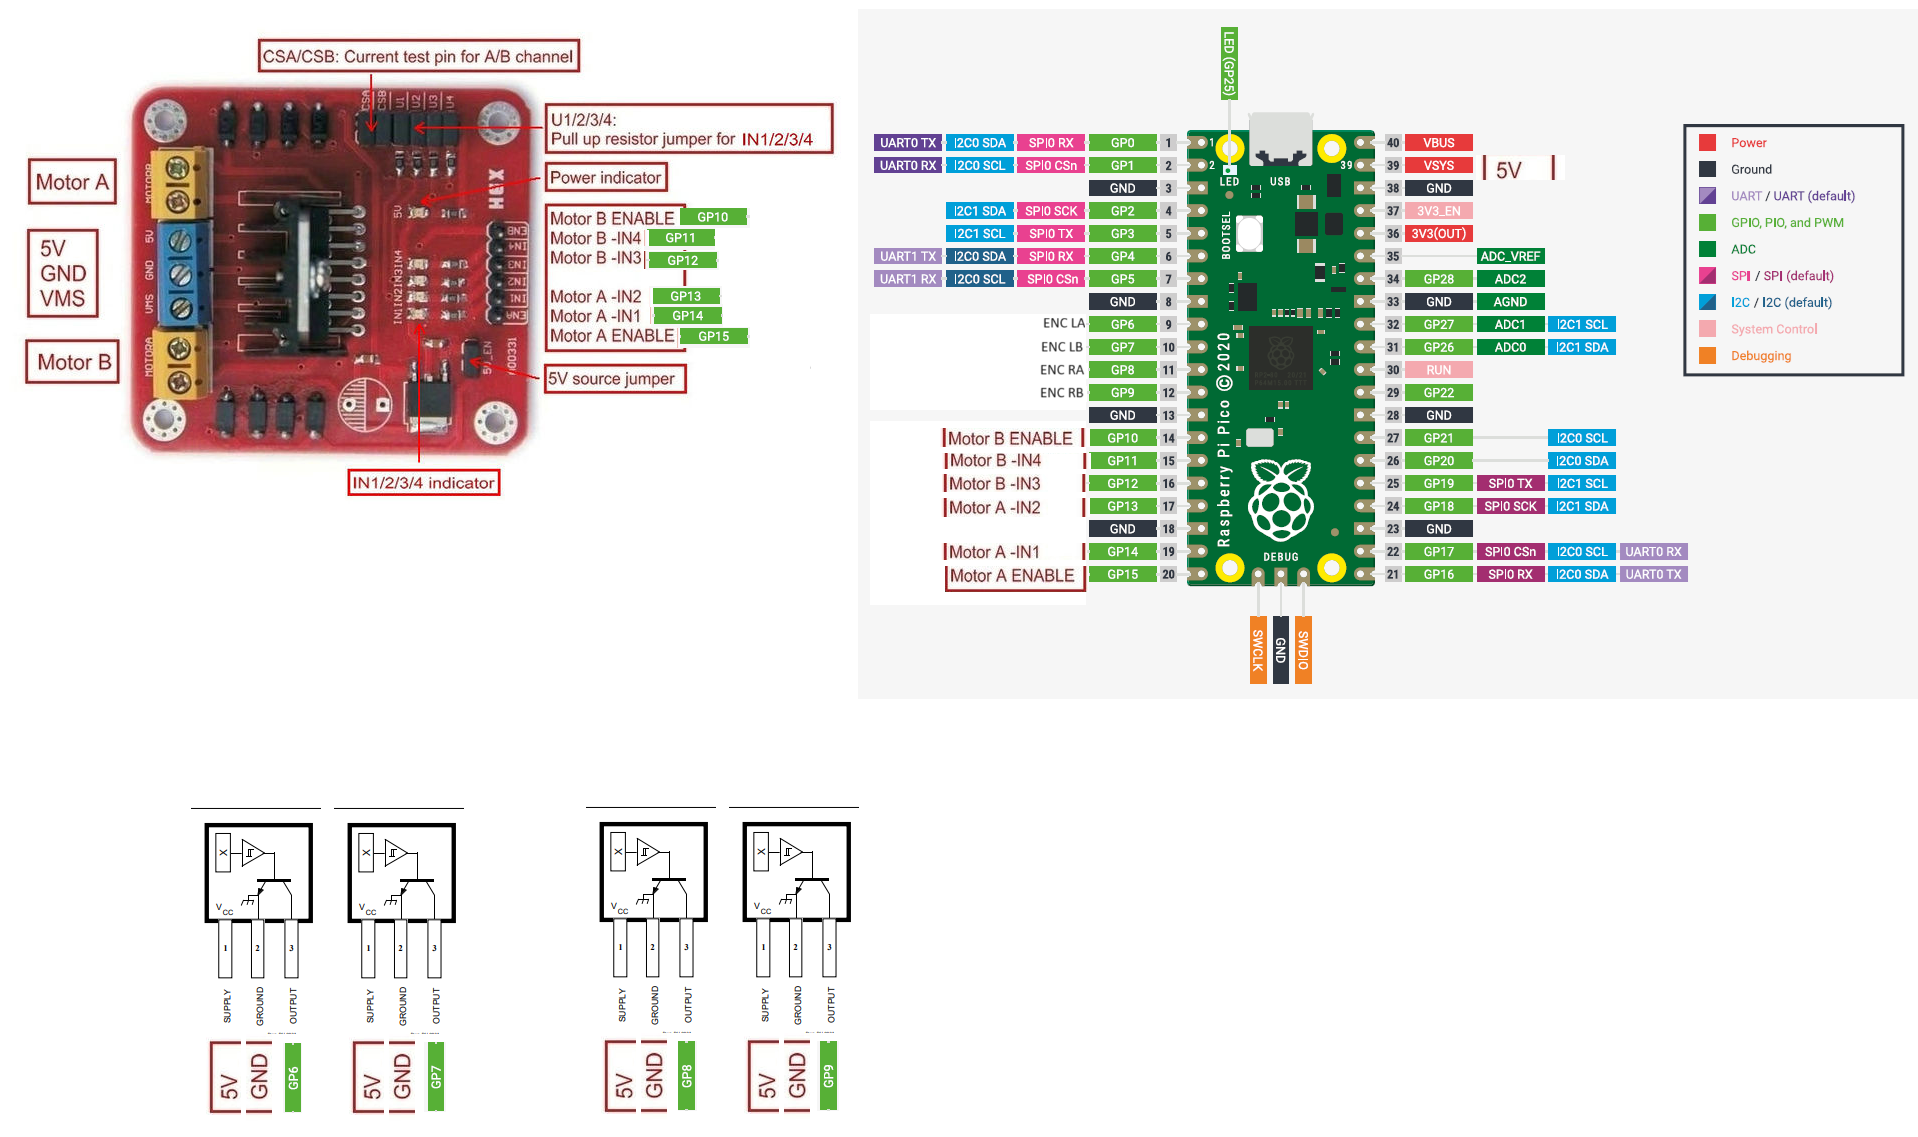
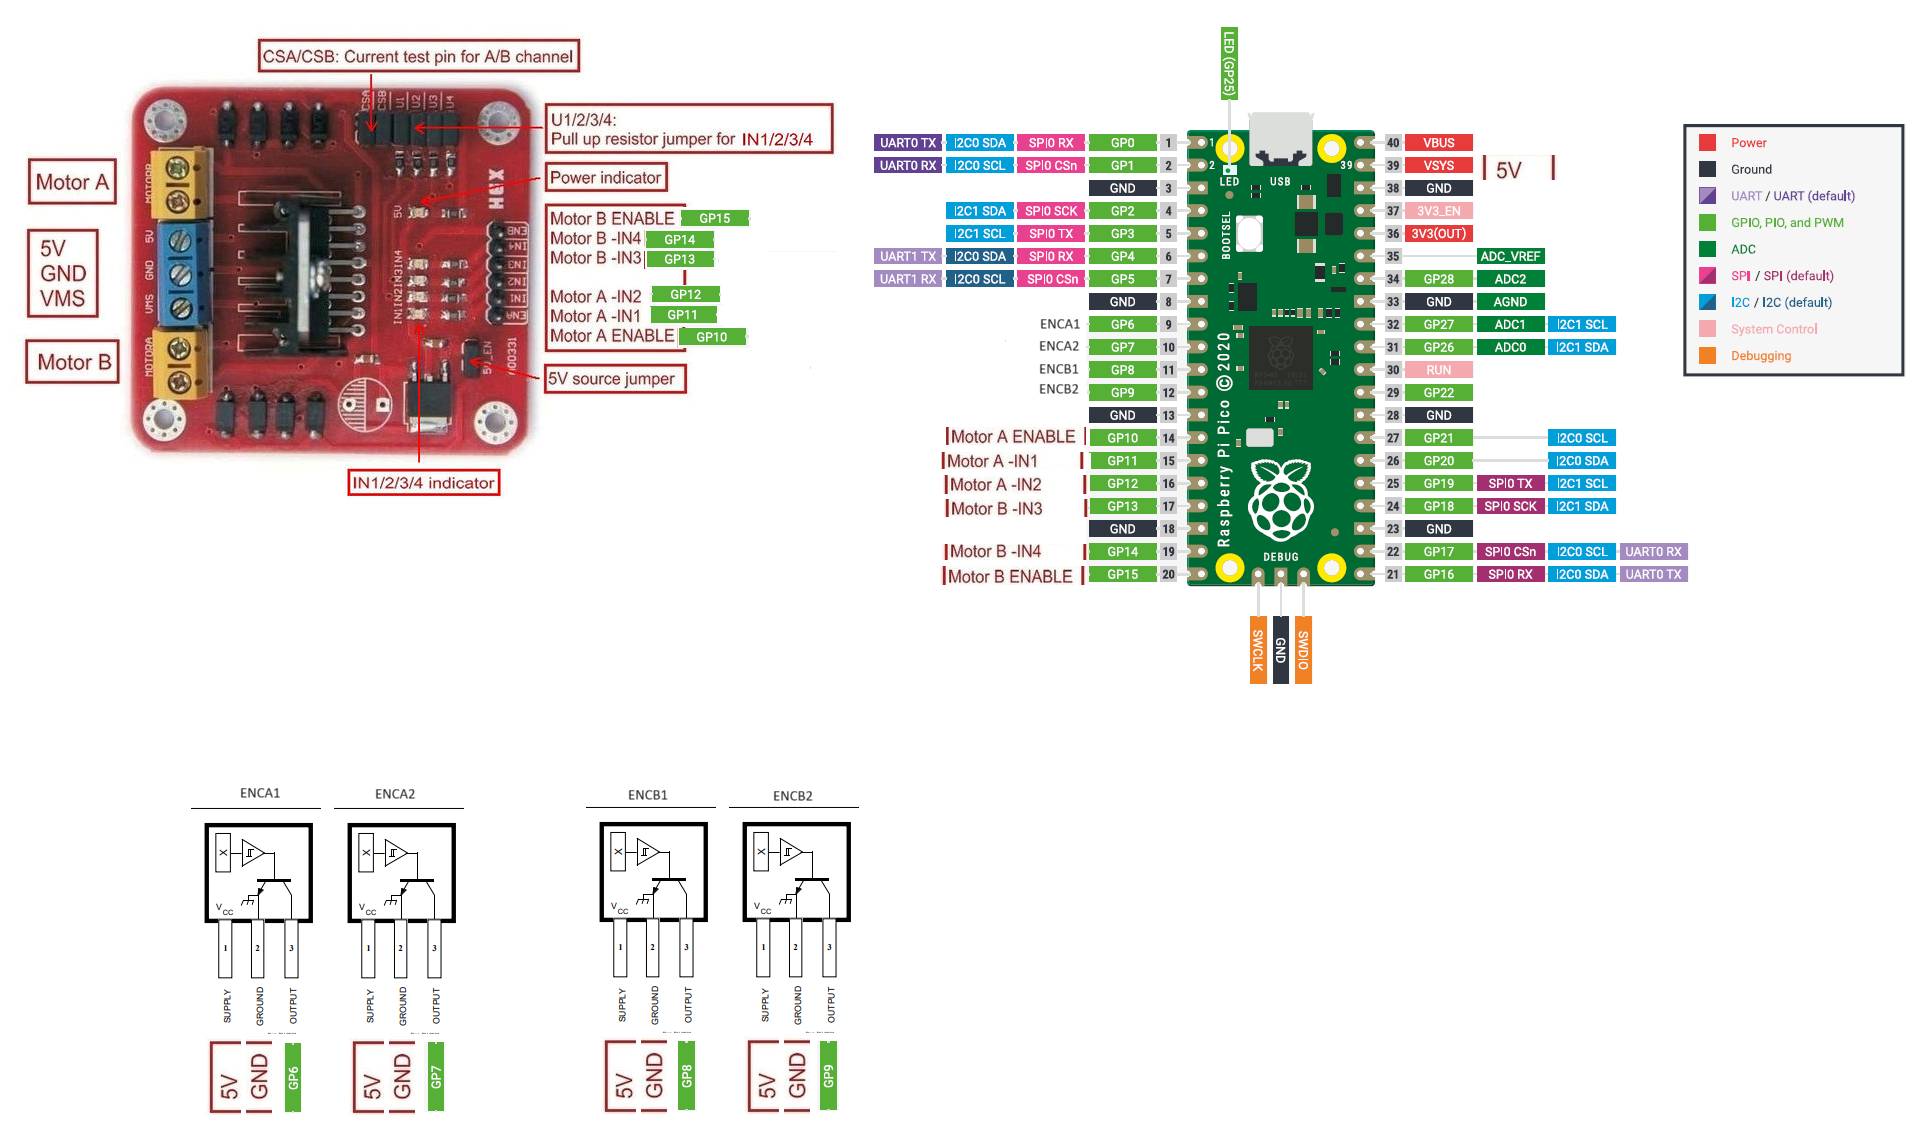
rover1 progress

diff --git a/rover1/rover1.c b/rover1/rover1.c
@@ -1,8 +1,30 @@
 
 #include "pico/stdlib.h"
 #include "pico/cyw43_arch.h"
+#include "hardware/clocks.h"
+#include "hardware/pwm.h"
 
 #define PRINT(...) printf(__VA_ARGS__)
+
+#define ENC_A1_PIN 6
+#define ENC_A2_PIN 7
+#define ENC_B1_PIN 8
+#define ENC_B2_PIN 9
+
+#define MOT_A_ENA 10
+#define MOT_A_IN1 11
+#define MOT_A_IN2 12
+#define MOT_B_IN3 13
+#define MOT_B_IN4 14
+#define MOT_B_ENA 15
+// adjust PWM_TOP to make sure (system clock) 125,000,000 / (MOT_PWM_FREQ * PWM_TOP ) < 256
+const float MOT_PWM_FREQ =  20000; // Hz
+const uint16_t PWM_TOP = 500000/MOT_PWM_FREQ; // 2^14 - 1
+
+void init_pins();
+void setup_pwm();
+void set_motors_direction(uint8_t mot_a, uint8_t mot_b);
+void set_motors_speed(float mot_a, float mot_b);
 
 int main() {
     stdio_init_all();
@@ -10,17 +32,108 @@ int main() {
         printf("Wi-Fi init failed");
         return -1;
     }
+
+    init_pins();
+    setup_pwm();
+
+    set_motors_direction(1, 1);
+    set_motors_speed(0, 0.7);
+
     int counter = 0;
+    uint64_t pt = to_us_since_boot(get_absolute_time());
+    uint led_state = 1;
     while (true) {
-        cyw43_arch_gpio_put(CYW43_WL_GPIO_LED_PIN, 1);
-        sleep_ms(100);
-        cyw43_arch_gpio_put(CYW43_WL_GPIO_LED_PIN, 0);
-        sleep_ms(100);
-        cyw43_arch_gpio_put(CYW43_WL_GPIO_LED_PIN, 1);
-        sleep_ms(100);
-        cyw43_arch_gpio_put(CYW43_WL_GPIO_LED_PIN, 0);
-        sleep_ms(700); 
-        PRINT("\033[A\33[2K\rrover1, %i\n", counter);
-        counter++;
+
+        
+
+
+        uint64_t ct = to_us_since_boot(get_absolute_time());
+        if(ct - pt >= 500000){  
+            pt = ct;
+            led_state = led_state?0:1;
+            cyw43_arch_gpio_put(CYW43_WL_GPIO_LED_PIN, led_state);
+            
+            if(led_state)
+            {
+            counter++;
+            PRINT("\033[A\33[2K\rrover1, %i\n", counter);
+            }
+        }
+        
+    }
+}
+
+void init_pins(){
+
+    uint8_t enc_pins[]={ENC_A1_PIN, ENC_A2_PIN, ENC_B1_PIN, ENC_B2_PIN};
+    uint8_t mot_pins[]={ MOT_A_IN1, MOT_A_IN2, MOT_B_IN3, MOT_B_IN4};
+
+    for(int i=0; i<4; i++){
+        gpio_init(enc_pins[i]);
+        gpio_set_dir(enc_pins[i], GPIO_IN);
+    }
+    for(int i=0; i<4; i++){
+        gpio_init(mot_pins[i]);
+        gpio_set_dir(mot_pins[i], GPIO_OUT);
+    }
+    gpio_set_function(MOT_A_ENA, GPIO_FUNC_PWM);
+    gpio_set_function(MOT_B_ENA, GPIO_FUNC_PWM);
+}
+
+void set_motors_direction(uint8_t mot_a, uint8_t mot_b){
+    gpio_put(MOT_A_IN1, mot_a);
+    gpio_put(MOT_A_IN2, !mot_a);
+    gpio_put(MOT_B_IN3, mot_b);
+    gpio_put(MOT_B_IN4, !mot_b);
+}
+
+void setup_pwm(){
+    uint8_t PWM_PINS[] = {MOT_A_ENA, MOT_B_ENA};
+
+    float freq_sys = clock_get_hz(clk_sys);
+    uint pwm_clock_freq = MOT_PWM_FREQ * PWM_TOP;
+    float pwm_clkdiv = freq_sys / pwm_clock_freq; // Floating point clock divider, 1.f <= value < 256.f
+
+    uint num_pwm_pins = sizeof(PWM_PINS) / sizeof(PWM_PINS[0]);    
+    for(uint i = 0; i < num_pwm_pins; i++){
+        uint PWM_PIN = PWM_PINS[i];
+        gpio_set_function(PWM_PIN, GPIO_FUNC_PWM);
+        uint slice_num = pwm_gpio_to_slice_num(PWM_PIN);
+        pwm_set_clkdiv(slice_num, pwm_clkdiv);
+        pwm_set_wrap(slice_num, PWM_TOP);
+        pwm_set_chan_level(slice_num, pwm_gpio_to_channel(PWM_PIN), 0);
+        pwm_set_enabled(slice_num, true);
+    }    
+}
+
+void set_motors_speed(float mot_a, float mot_b){
+    uint slice_num_a = pwm_gpio_to_slice_num(MOT_A_ENA);
+    uint slice_num_b = pwm_gpio_to_slice_num(MOT_B_ENA);
+    pwm_set_chan_level(slice_num_a, pwm_gpio_to_channel(MOT_A_ENA), mot_a * PWM_TOP);
+    pwm_set_chan_level(slice_num_b, pwm_gpio_to_channel(MOT_B_ENA), mot_b * PWM_TOP);
+}
+
+// serial interface for rover1 pwm frequency and duty cycle control for testing
+void serial_interface(){
+    char c;
+    while (true) {
+        c = getchar_timeout_us(0);
+        if(c != PICO_ERROR_TIMEOUT){
+            if(c == 'f'){
+                PRINT("Enter PWM frequency: ");
+                float freq;
+                scanf("%f", &freq);
+                PRINT("Setting PWM frequency to %f Hz\n", freq);
+                MOT_PWM_FREQ = freq;
+                setup_pwm();
+            }
+            else if(c == 'd'){
+                PRINT("Enter PWM duty cycle: ");
+                float duty;
+                scanf("%f", &duty);
+                PRINT("Setting PWM duty cycle to %f\n", duty);
+                set_motors_speed(duty, duty);
+            }
+        }
     }
 }
